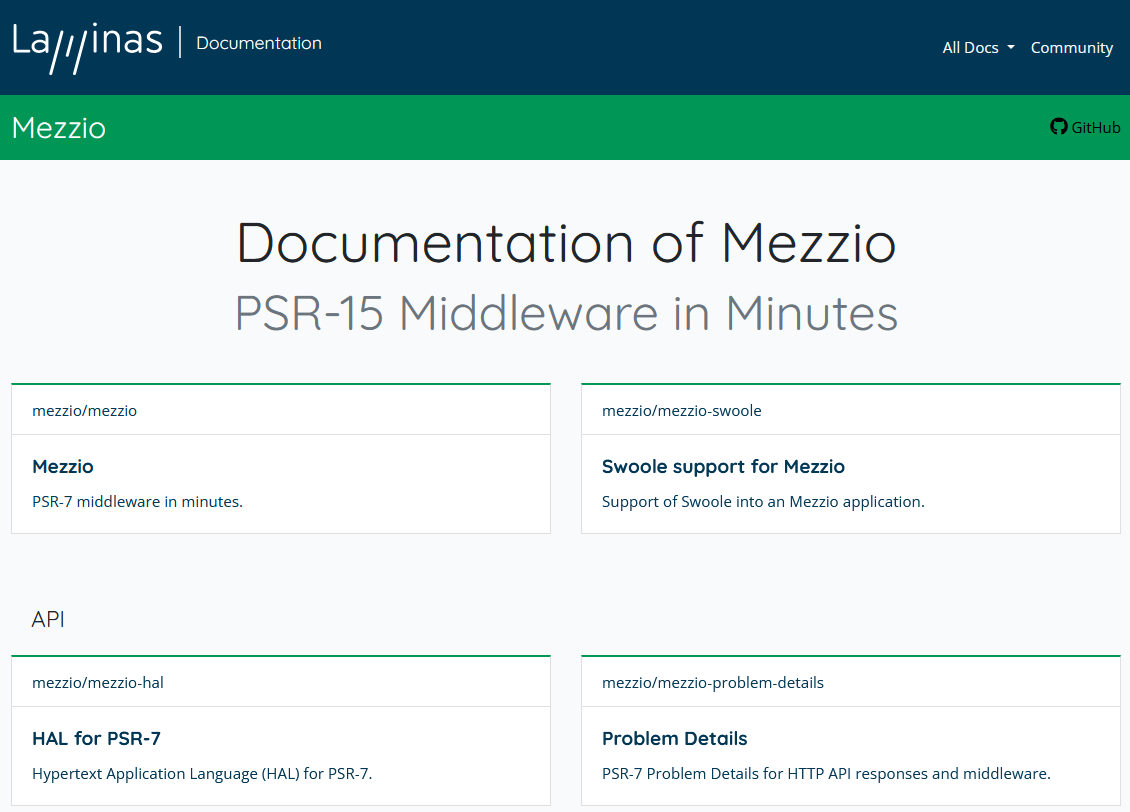
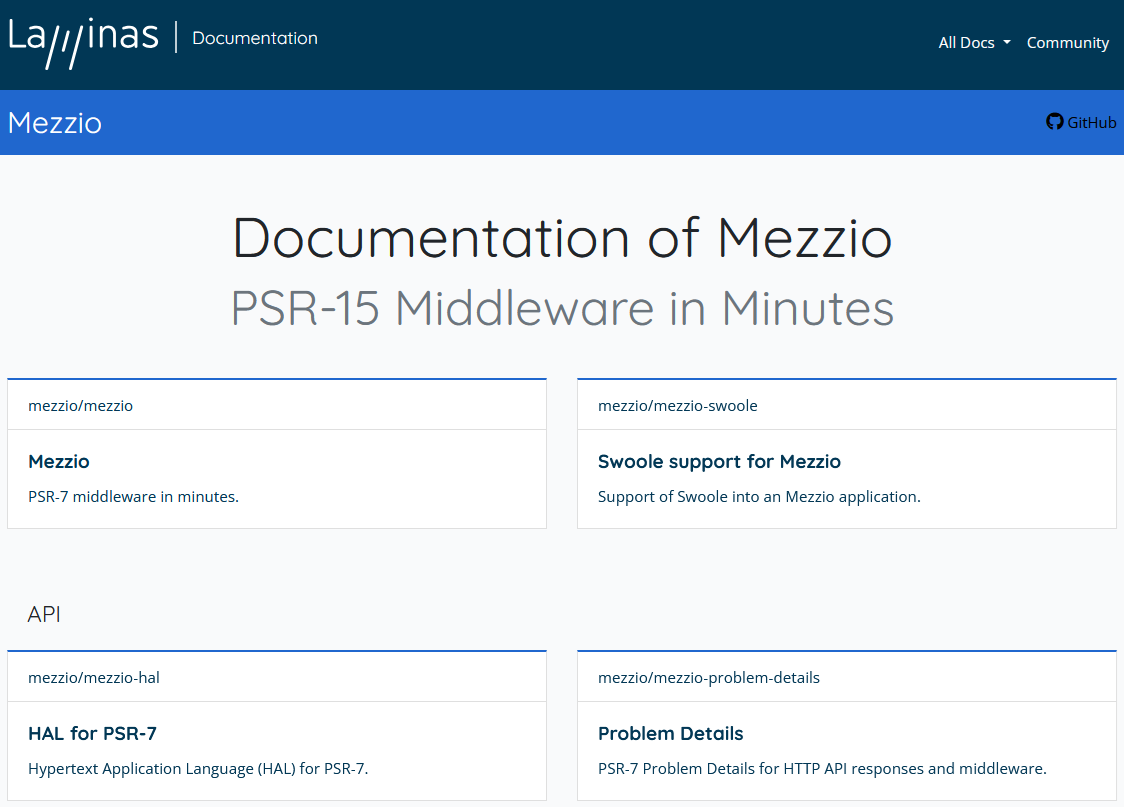
replaced mezzio screen capture and mezzio color

diff --git a/bootstrap/scss/_custom-variables.scss b/bootstrap/scss/_custom-variables.scss
@@ -8,7 +8,7 @@ $laminas-colors: (
   "components": #E64010,
   "mvc":        #009EE3,
   "api-tools":  #E5007D,
-  "mezzio":     #009655,
+  "mezzio":     #2067ce,
   "essentials": #DEAA3F,
 );
 
